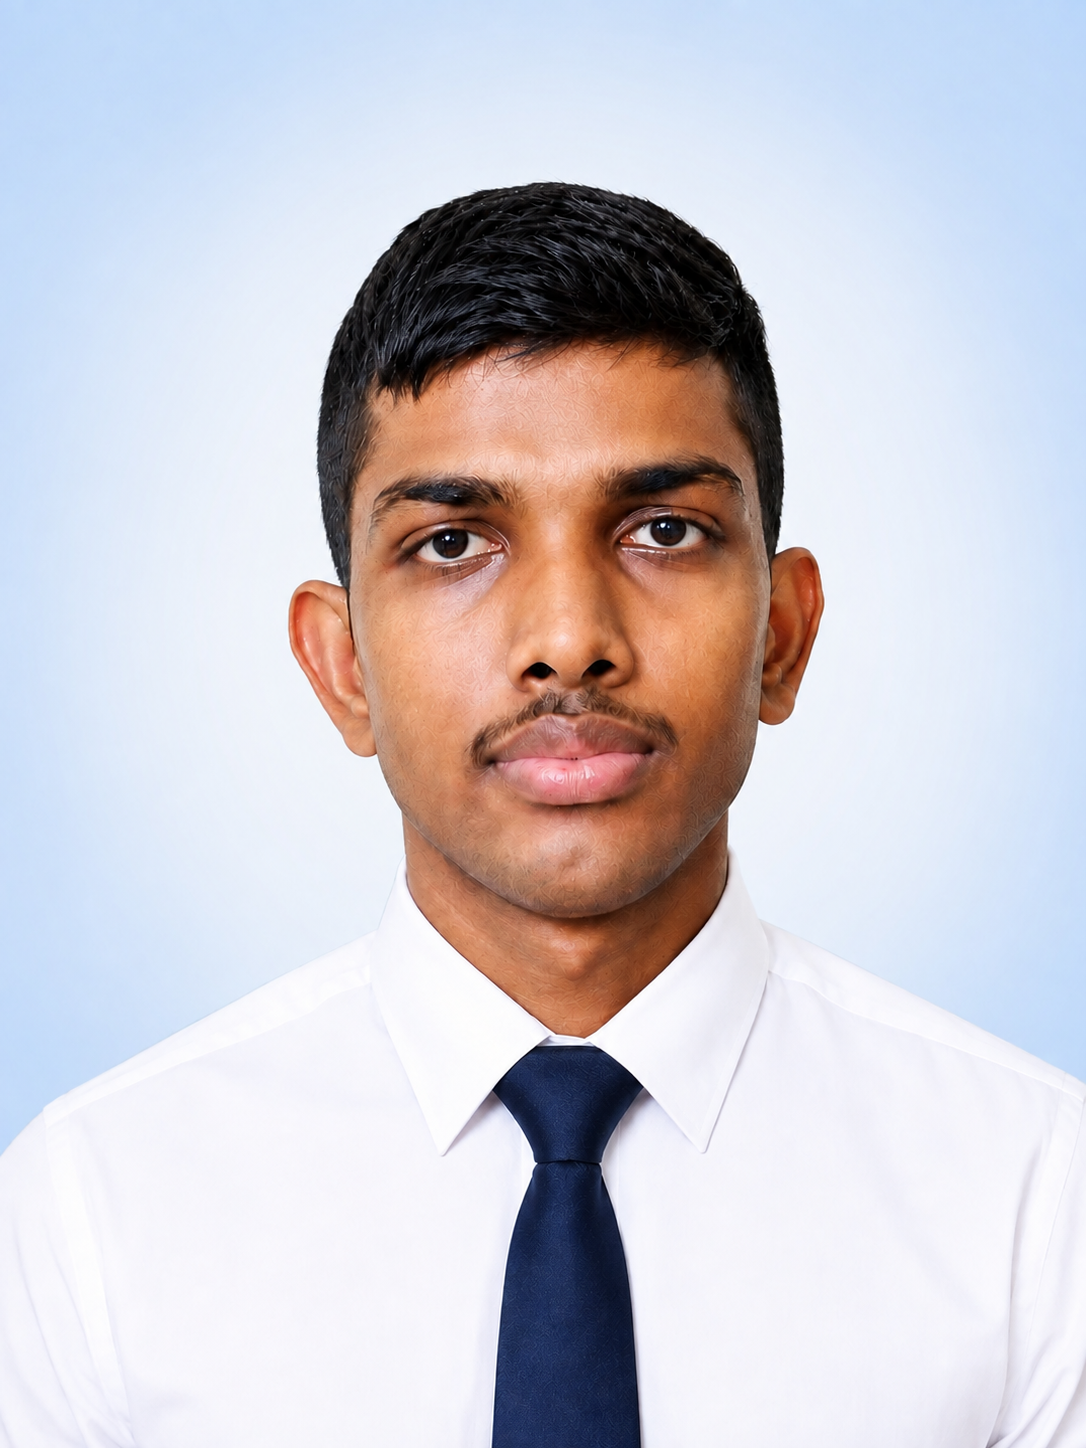
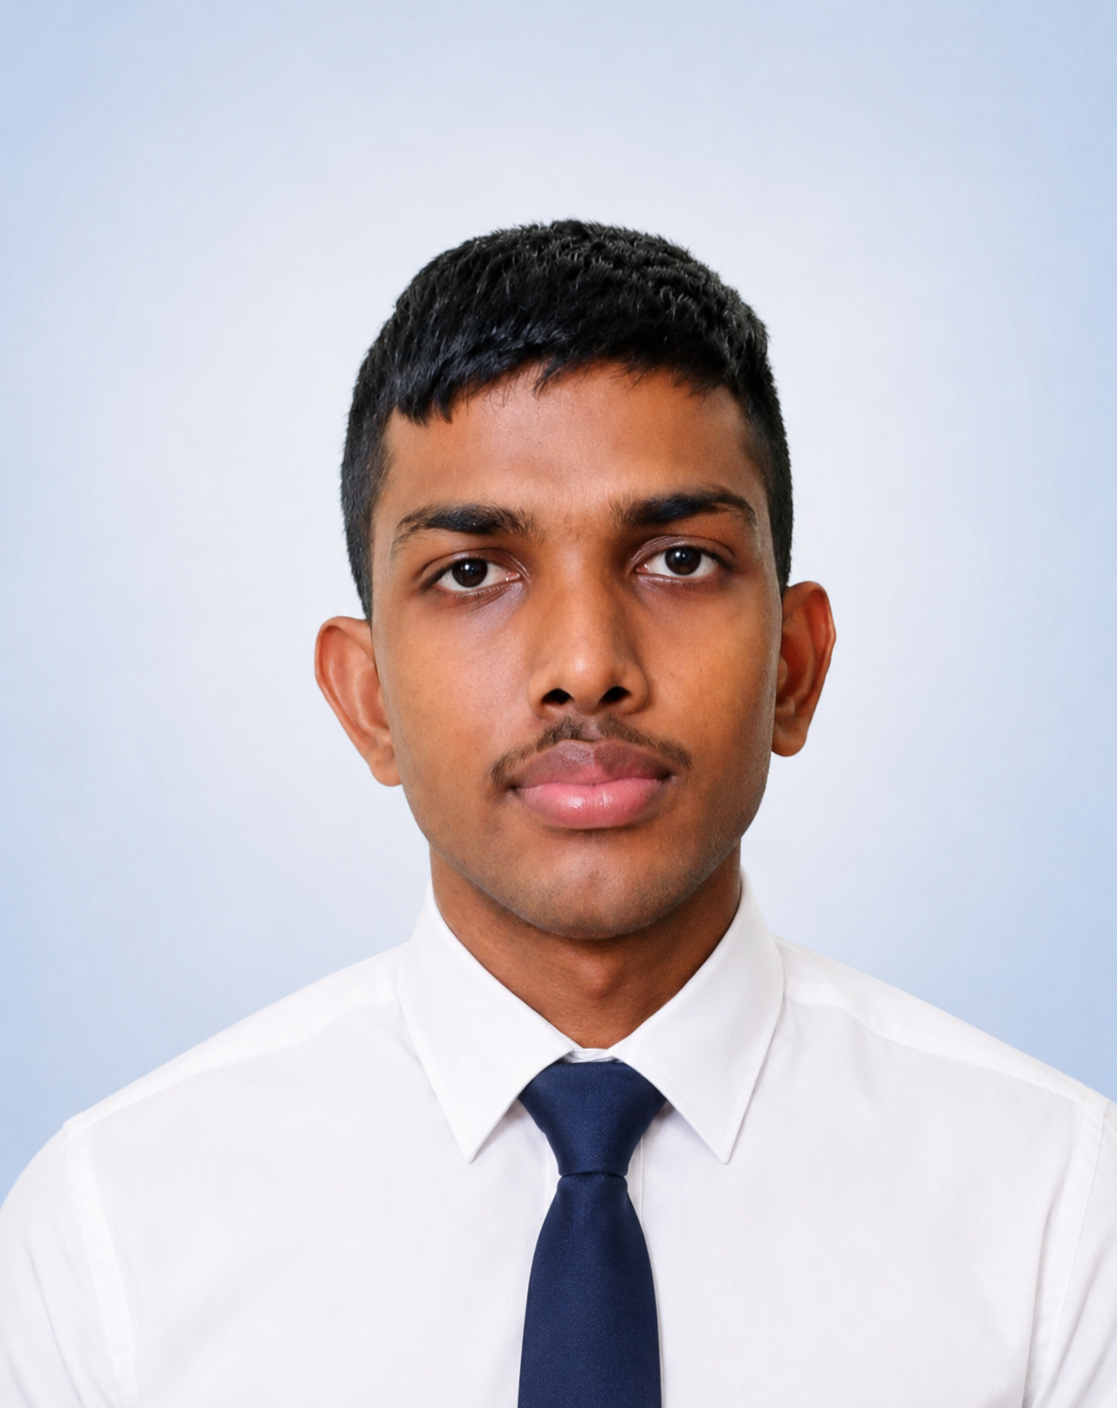
cards updated

diff --git a/index.html b/index.html
@@ -250,39 +250,54 @@
           class="projects-showcase reveal"
         >
 
-          <div class="showcase-heading">
+          <div class="section-heading centered showcase-heading">
 
-            <span class="showcase-label">
-              Selected work
-            </span>
+            <p class="eyebrow">
+              01 / Work
+            </p>
 
-            <h3>
-              Projects I've built
-            </h3>
+            <h2>
+              Projects I've
+              <span class="gradient-text">
+                built.
+              </span>
+            </h2>
+
+            <p class="learning-intro">
+              A selection of practical applications I have designed and built
+              to solve real-world problems.
+            </p>
 
           </div>
 
           <div class="project-cards">
 
-            <article class="project-card project-card-add">
+            <article class="project-card">
 
-              <div class="project-card-media media-1">
-                <span class="project-placeholder">Your project image</span>
+              <div class="project-card-media media-1 importease-media">
+                <img
+                  src="images/importease.jpg"
+                  alt="ImportEase platform preview"
+                  loading="lazy"
+                  onerror="this.remove()"
+                >
               </div>
 
               <div class="project-card-body">
 
                 <span class="project-card-tag">
-                  Coming soon
+                  Logistics &amp; Trade
                 </span>
 
                 <h4>
-                  Your next project
+                  ImportEase
                 </h4>
 
                 <p>
 
-                  A space reserved for the next project you upload.
+                  A digital platform that simplifies importing for Sri Lankan
+                  SMEs with HS-code and tariff search, import-cost estimates,
+                  clearing-agent bids, shipment tracking and document updates.
 
                 </p>
 
@@ -298,13 +313,15 @@
 
             <article class="project-card">
 
-              <div class="project-card-media media-2">
-                <img
-                  src="images/expensetracker.png"
-                  alt="Budget Expense Tracker preview"
-                  loading="lazy"
-                  onerror="this.remove()"
-                >
+              <div class="project-card-media media-2 is-mobile">
+                <div class="phone-frame">
+                  <img
+                    src="images/expensetracker.png"
+                    alt="Budget Expense Tracker preview"
+                    loading="lazy"
+                    onerror="this.remove()"
+                  >
+                </div>
               </div>
 
               <div class="project-card-body">
@@ -336,13 +353,15 @@
 
             <article class="project-card">
 
-              <div class="project-card-media media-3">
-                <img
-                  src="images/agricultural.png"
-                  alt="Agricultural Assistant App preview"
-                  loading="lazy"
-                  onerror="this.remove()"
-                >
+              <div class="project-card-media media-3 is-mobile">
+                <div class="phone-frame">
+                  <img
+                    src="images/agricultural.png"
+                    alt="Agricultural Assistant App preview"
+                    loading="lazy"
+                    onerror="this.remove()"
+                  >
+                </div>
               </div>
 
               <div class="project-card-body">
@@ -374,13 +393,15 @@
 
             <article class="project-card">
 
-              <div class="project-card-media media-4">
-                <img
-                  src="images/jobfinder.png"
-                  alt="Job Finder App preview"
-                  loading="lazy"
-                  onerror="this.remove()"
-                >
+              <div class="project-card-media media-4 is-mobile">
+                <div class="phone-frame">
+                  <img
+                    src="images/jobfinder.png"
+                    alt="Job Finder App preview"
+                    loading="lazy"
+                    onerror="this.remove()"
+                  >
+                </div>
               </div>
 
               <div class="project-card-body">
@@ -700,8 +721,7 @@
         </h2>
 
         <p>
-          I'm interested in opportunities where I can contribute,
-          learn and grow as a software developer.
+        Open to roles where I can solve real problems, and keep getting better at it.
         </p>
 
         <div class="contact-actions">
@@ -719,7 +739,7 @@
 
           <a
             class="contact-icon"
-            href="#"
+            href="https://www.linkedin.com/in/k-h-ramiru-l-70869b3a4/"
             target="_blank"
             rel="noreferrer"
             aria-label="LinkedIn"
@@ -731,7 +751,7 @@
 
           <a
             class="contact-icon"
-            href="#"
+            href="https://github.com/ramiruxlaknila-cmd"
             target="_blank"
             rel="noreferrer"
             aria-label="GitHub"

diff --git a/style.css b/style.css
@@ -502,23 +502,7 @@ button {
 }
 
 .showcase-heading {
-  display: flex;
-  align-items: baseline;
-  gap: 16px;
-  flex-wrap: wrap;
-  margin-bottom: 30px;
-}
-
-.showcase-label {
-  font: 500 .72rem "DM Mono", monospace;
-  letter-spacing: .1em;
-  text-transform: uppercase;
-  color: var(--accent);
-}
-
-.showcase-heading h3 {
-  font-size: 1.6rem;
-  letter-spacing: -.03em;
+  margin-bottom: 60px;
 }
 
 .project-cards {
@@ -557,6 +541,59 @@ button {
   object-fit: cover; /* Crops image neatly into the 180px box */
   object-position: top center; /* Focuses on the top portion of your screenshot */
   display: block;
+}
+
+/* Keep the wide ImportEase preview fully visible and centred. */
+.importease-media img {
+  object-fit: contain;
+  object-position: center;
+}
+
+/* ---- Mobile app screenshot variant ----
+   Add class="is-mobile" alongside the existing
+   media-N class on .project-card-media, and wrap
+   the <img> in a .phone-frame div, to center a tall
+   phone screenshot instead of cropping it. */
+
+.project-card-media.is-mobile {
+  display: flex;
+  align-items: center;
+  justify-content: center;
+  padding: 16px 0;
+}
+
+.phone-frame {
+  position: relative;
+  height: 100%;
+  max-width: 68%;
+  aspect-ratio: 9 / 19.5;
+  border-radius: 20px;
+  padding: 5px;
+  background: #0b1220;
+  border: 1px solid rgba(255, 255, 255, .12);
+  box-shadow: 0 16px 34px rgba(0, 0, 0, .45);
+}
+
+.phone-frame img {
+  width: 100%;
+  height: 100%;
+  object-fit: cover;
+  object-position: top center;
+  border-radius: 15px;
+  display: block;
+}
+
+.phone-frame::before {
+  content: "";
+  position: absolute;
+  top: 5px;
+  left: 50%;
+  transform: translateX(-50%);
+  width: 38%;
+  height: 13px;
+  background: #0b1220;
+  border-radius: 0 0 9px 9px;
+  z-index: 2;
 }
 
 .project-placeholder {
